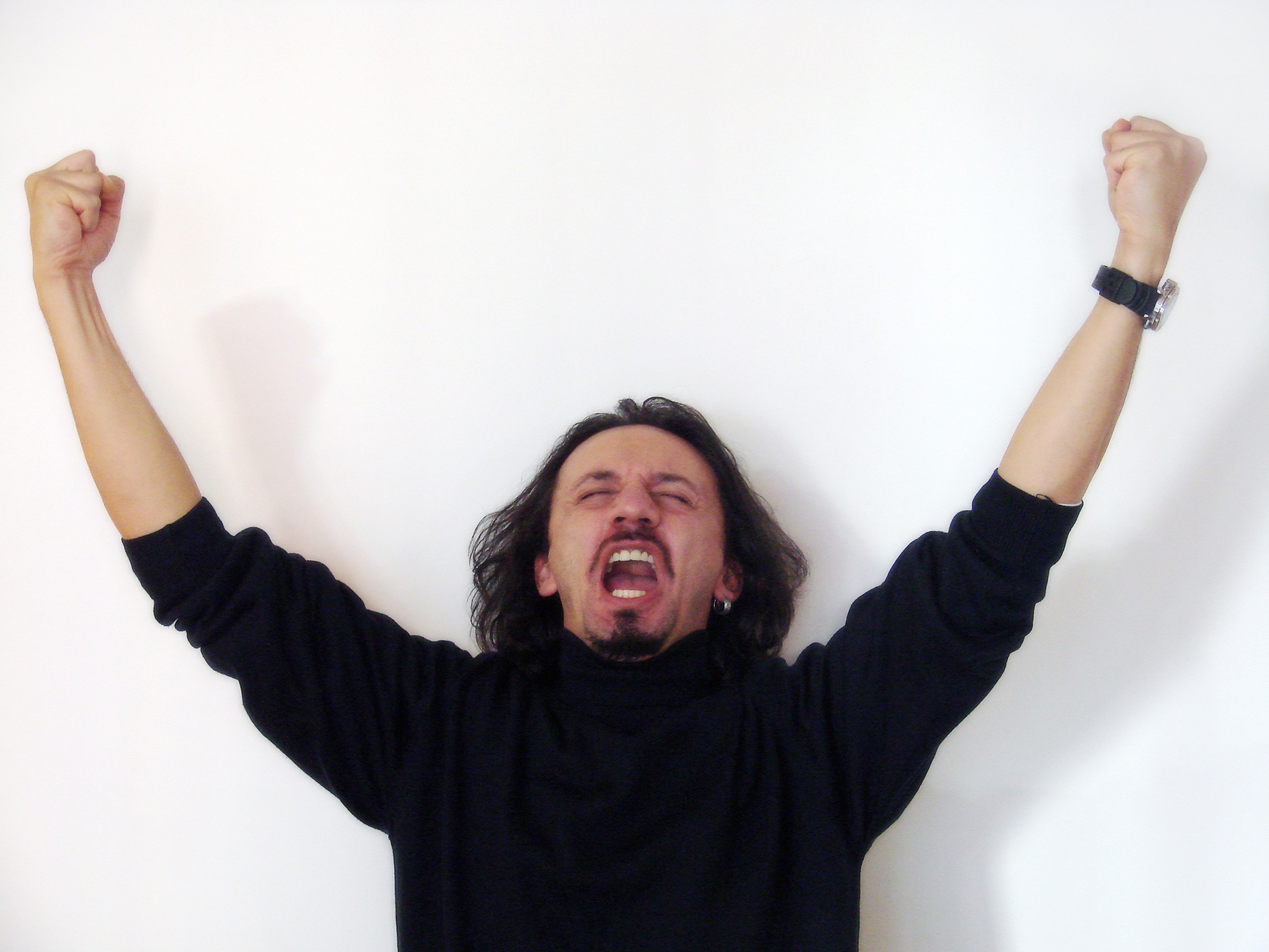
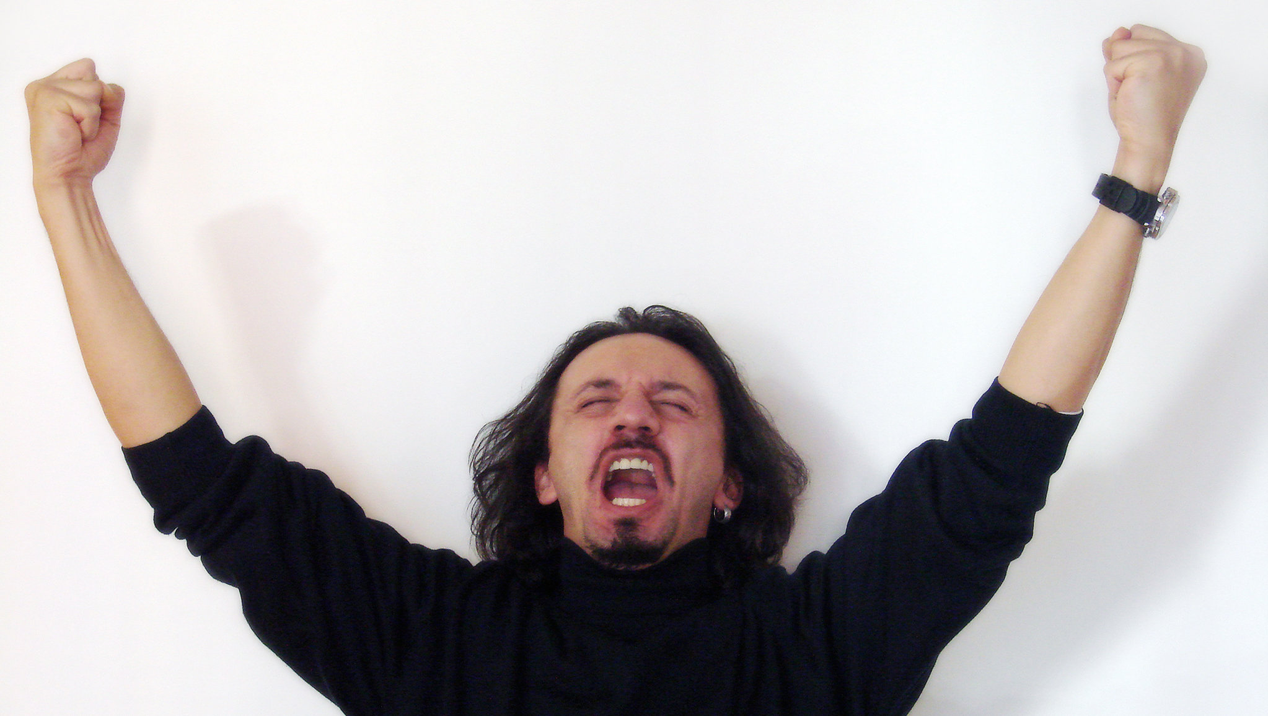
image changes / responsiveness

diff --git a/programLoop.js b/programLoop.js
@@ -19,8 +19,24 @@ var tranquilAudio = document.getElementById("tranquilAudio");
 var musicOn = false;
 var alreadyViewed = [];
 
-//start music
-//tranquilAudio.play();
+//media queries for background image size *********************************
+var mobile = window.matchMedia("(max-width: 600px)")
+var tablet = window.matchMedia("(max-width: 1000px)")
+
+function mobileQuery(mobile) {
+    if (mobile.matches) { // If media query matches
+      imageContainer.style.backgroundSize = "100% 80%";
+    }
+  }
+  mobile.addListener(mobileQuery);
+
+  function tabletQuery(tablet) {
+    if (tablet.matches) { // If media query matches
+        imageContainer.style.backgroundSize = "100% 80%";
+    }
+  }
+  tablet.addListener(tabletQuery);
+//***********************************************************************
 
 //run first quote
 quoteGenerator();
@@ -48,20 +64,15 @@ function quoteGenerator(){
                 console.log(alreadyQuoted.length);
                 quoteGenerator()
                 }else{
-                    // if all quotes have been displayed, reset the array... confirm if user wants to restart
-                    setTimer();
-                    var conf = confirm("All quotes have been displayed! Click 'OK' to start over.")
-                    if (conf){
-                        quoteStorageLength = 0;
-                        alreadyQuoted = [];
-                        setTimer();
-                    }
+                    // if all quotes have been displayed, reset the array
+                    quoteStorageLength = 0;
+                    alreadyQuoted = [];
                 }
         }
     }
 }
 
-function setTimer() {
+function pauseQuotes() {
     if(run){
         run = false; 
         pauseButton.src = 'images/play.svg';
@@ -120,6 +131,7 @@ function pickImage() {
                 photoCredit.innerHTML = "Photo by <a href='/photographer/danisman-34520'> Emre Danisman </a> from <a href='https://freeimages.com/'>FreeImages</a>";
                 break;
         }
+        imageContainer.style.backgroundSize = "100% 100%";
         alreadyViewed.push(imageIndex);
     }else{
         if (alreadyViewed.length < 4){

diff --git a/styles.css b/styles.css
@@ -5,6 +5,8 @@ Coded in VS Code */
 body {
     background-color: black;
     color: white;
+    font-family: Arial, Helvetica, sans-serif;
+    font-size: 0.5em;
 }
 
 a {
@@ -27,14 +29,13 @@ hr {
 /* Fonts from https://fonts.google.com/ */
 nav {
     margin-bottom: 10px;
-    font-size: 2.3rem;
+    font-size: 4.3em;
     font-family: 'Courgette', cursive;
-    border: 2px solid lightskyblue;
 }
 
 #imagecontainer {
-    width: 100%;
-    height: 1000px;
+    width: 80%;
+    height: auto;
     background-size: contain;
 }    
 
@@ -45,7 +46,7 @@ nav {
     flex-direction: column;
     align-items: center; 
     justify-content: center;
-    height: 700px;
+    height: 800px;
     margin:auto;
     background-color: rgba(0,0,0,0.7);
     color: white;
@@ -55,11 +56,11 @@ nav {
 }
 
 #quote {
-    font-size: 2.3rem; 
+    font-size: 4.5em; 
 }
 
 #author {
-    font-size: 1.5rem;
+    font-size: 2.5em;
 }
 
 #controlBar {
@@ -99,4 +100,62 @@ nav {
     flex-direction: row;
     justify-content: center;
     font-size: 1.1rem;
+}
+
+
+
+@media only screen and (max-width: 600px) {
+   
+   
+    
+    #logo {
+        width: 40px;
+    }
+    
+    nav {
+        margin-bottom: 10px;
+        font-size: 3.5em;
+        font-family: 'Courgette', cursive;
+    }
+    
+    #imagecontainer {
+        height: 400px;
+    }    
+    
+    #quoteContainer {
+        height: 400px;
+    }
+    
+    #quote {
+        font-size: 2.5em; 
+    }
+    
+    #author {
+        font-size: 2.0em;
+    }
+     
+    #prevButton {
+        
+        width: 40px;
+        height: 40px;
+    }
+    
+    #pauseButton {
+        width: 40px;
+        height: 40px;
+    }
+    
+    #musicButton {
+        width: 40px;
+        height: 40px;
+    }
+    
+    #photoCredit {
+        font-size: 1.5em;
+    }
+    
+    #musicCredit {
+        font-size: 1.5em;
+    }
+
 }

diff --git a/index.html b/index.html
@@ -35,7 +35,7 @@ Coded in VS Code -->
             <audio id="tranquilAudio" src="2019-04-26_-_Tranquility_-_www.fesliyanstudios.com.mp3" preload="auto" loop></audio>
             <!-- image as button, source: https://stackoverflow.com/questions/16131988/making-an-image-act-like-a-button-->
             <input type="image" src="images\back_disabled.svg" id="prevButton" onclick="prevQuote()" disabled>
-            <img src="images\pause.svg" id="pauseButton" onclick="setTimer(timer)">
+            <img src="images\pause.svg" id="pauseButton" onclick="pauseQuotes(timer)">
             <img src="images\music_off.svg" id="musicButton" onclick="toggleMusic()">
         </div>
         

diff --git a/quoteArray.js b/quoteArray.js
@@ -100,7 +100,7 @@ var quoteArray = [
 {
        quote : "We can easily forgive a child who is afraid of the dark; the real tragedy of life is when men are afraid of the light.", author : "Plato"}, 
 {
-       quote : "Teach thy tongue to say,  &quot;I do not know, &quot; and thous shalt progress.", author : "Maimonides"}, 
+       quote : "Teach thy tongue to say,  &quot;I do not know, &quot; and thou shalt progress.", author : "Maimonides"}, 
 {
        quote : "Start where you are. Use what you have.  Do what you can.", author : "Arthur Ashe"}, 
 {
